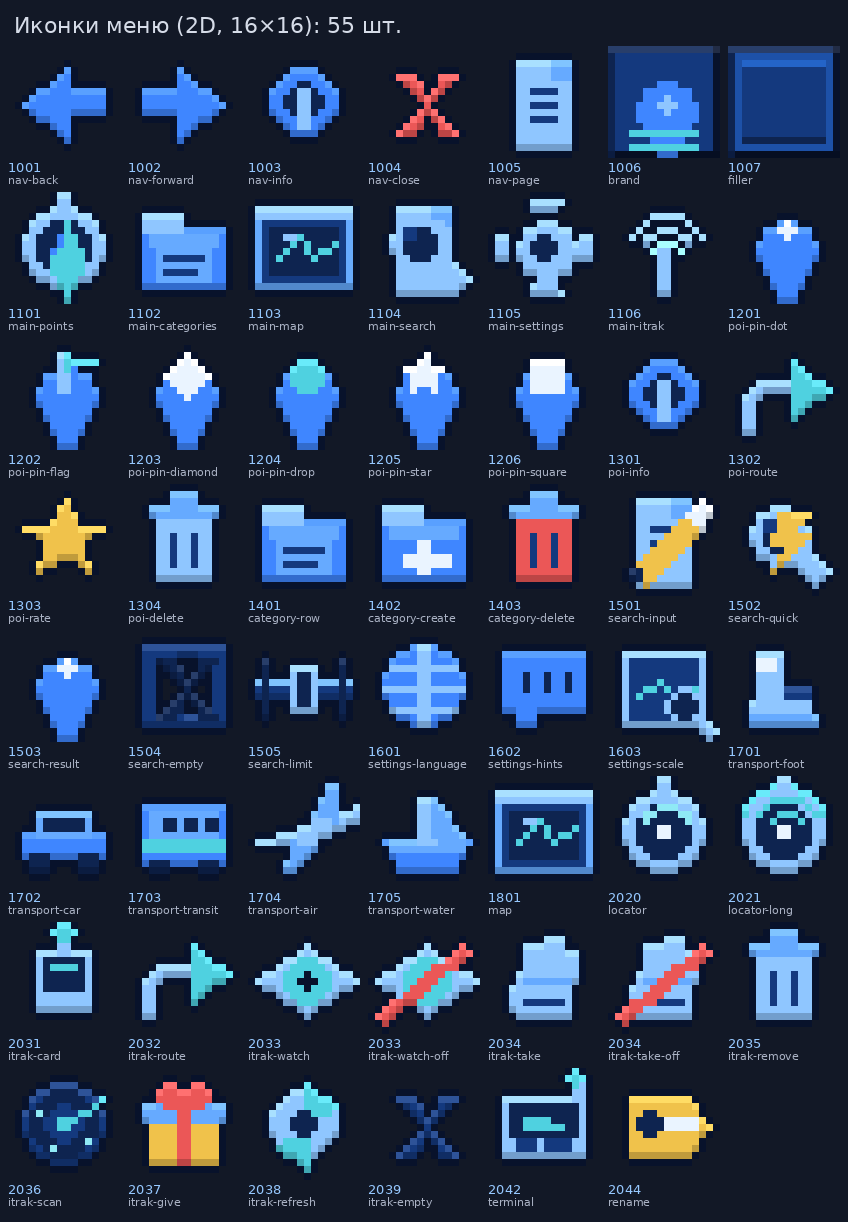
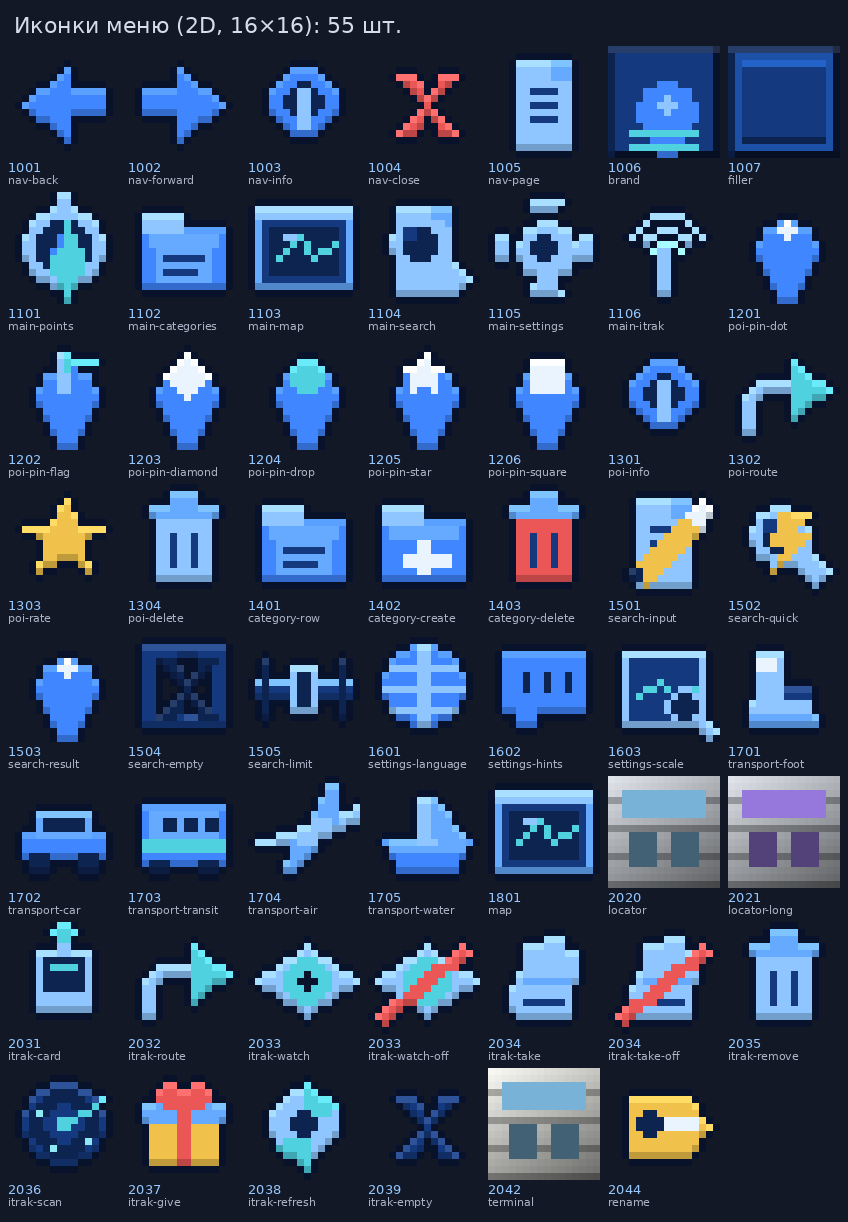
v1.4.3: объёмные терминал и локаторы, уточнён трекер

Changed region(s): [[0.7052, 0.6219, 1.0, 0.7463], [0.5519, 0.8707, 0.7052, 0.964]]

diff --git a/respack/build.py b/respack/build.py
@@ -219,6 +219,68 @@ def model_tracker(color_key: str, wet: bool) -> dict:
     }
 
 
+
+
+def tex_device(key: str, base, accent):
+    from PIL import Image, ImageDraw
+    img = Image.new("RGBA", (16, 16))
+    d = ImageDraw.Draw(img)
+    for y in range(16):
+        for x in range(16):
+            k = 1.05 - y / 40.0 - x / 70.0
+            c = tuple(int(v * k) for v in base)
+            if y % 4 == 3:
+                c = tuple(int(v * 0.72) for v in c)
+            d.point((x, y), fill=c + (255,))
+    d.rectangle([2, 2, 13, 5], fill=accent + (255,))
+    d.rectangle([3, 8, 6, 12], fill=tuple(int(v * 0.55) for v in accent) + (255,))
+    d.rectangle([9, 8, 12, 12], fill=tuple(int(v * 0.55) for v in accent) + (255,))
+    return img
+
+
+DEVICES = {
+    "terminal": ((236, 236, 232), (120, 178, 214)),
+    "locator": ((212, 216, 222), (120, 178, 214)),
+    "locator-long": ((212, 216, 222), (150, 120, 220)),
+}
+
+
+def model_device(key: str) -> dict:
+    def bx(b, tex):
+        el = {"from": [round(v, 3) for v in b[:3]], "to": [round(v, 3) for v in b[3:]], "faces": {}}
+        for f in ("north", "south", "west", "east", "up", "down"):
+            el["faces"][f] = {"texture": tex, "uv": _auto_uv(f, b)}
+        return el
+
+    if key == "terminal":
+        els = [bx((2.0, 0.6, 2.0, 14.0, 11.0, 14.0), "#body"),
+               bx((2.0, 11.0, 2.0, 14.0, 12.2, 14.0), "#accent"),
+               bx((3.4, 3.0, 14.0, 12.6, 9.6, 14.4), "#accent"),
+               bx((7.0, 12.2, 7.0, 9.0, 15.8, 9.0), "#accent"),
+               bx((6.0, 15.8, 6.0, 10.0, 16.0, 10.0), "#body")]
+    else:
+        long_ = key == "locator-long"
+        els = [bx((3.0, 3.0, 4.0, 13.0, 13.0, 12.0), "#body"),
+               bx((3.0, 13.0, 4.0, 13.0, 14.0, 12.0), "#accent"),
+               bx((6.0, 3.0, 12.0, 10.0, 10.0, 12.4), "#accent"),
+               bx((7.0, 14.0, 7.0, 9.0, 16.0, 9.0), "#body")]
+        if long_:
+            els.append(bx((1.6, 6.0, 6.0, 3.0, 11.0, 10.0), "#accent"))
+            els.append(bx((13.0, 6.0, 6.0, 14.4, 11.0, 10.0), "#accent"))
+    return {
+        "parent": "minecraft:block/block",
+        "textures": {"particle": f"hahgps:item/{key}", "body": f"hahgps:item/{key}",
+                     "accent": f"hahgps:item/{key}_accent"},
+        "elements": els,
+        "display": {
+            "gui": {"rotation": [30, 225, 0], "translation": [0, 0, 0], "scale": [0.625, 0.625, 0.625]},
+            "ground": {"rotation": [0, 0, 0], "translation": [0, 3, 0], "scale": [0.25, 0.25, 0.25]},
+            "fixed": {"rotation": [0, 0, 0], "translation": [0, 0, 0], "scale": [0.5, 0.5, 0.5]},
+            "thirdperson_righthand": {"rotation": [0, 45, 0], "translation": [0, 3, 0], "scale": [0.4, 0.4, 0.4]},
+            "firstperson_righthand": {"rotation": [0, 45, 0], "translation": [0, 2, 0], "scale": [0.45, 0.45, 0.45]},
+        },
+    }
+
 def _auto_uv(face, b):
     x0, y0, z0, x1, y1, z1 = b
     if face == "north":
@@ -259,10 +321,16 @@ def build_pack() -> None:
         icons2d.render(icons2d.DRAW[key]).save(tex / f"{key}.png")
     icons2d.render(icons2d.DRAW["itrak-card"]).save(tex / "itrak-card.png")
 
+    for key, (base, accent) in DEVICES.items():
+        tex_device(key, base, accent).save(tex / f"{key}.png")
+        Image.new("RGBA", (16, 16), accent + (255,)).save(tex / f"{key}_accent.png")
+        write_json(models / f"{key}.json", model_device(key))
+
     # модели плоских иконок: parent item/generated + layer0
     flat = {key for _cmd, key, _mats in ICONS}
     flat |= set(ICON_BY_MATERIAL.values())
     flat.add("itrak-card")
+    flat -= set(DEVICES)
     for key in sorted(flat):
         write_json(models / f"{key}.json", {
             "parent": "minecraft:item/generated",

diff --git a/README.md b/README.md
@@ -406,6 +406,7 @@ ru.hahgps
 
 | Версия | Что изменилось |
 |---|---|
+| **1.4.3** | **Объёмные терминал и локаторы.** Терминал iTrak и оба локатора в паке стали 3D-моделями, корпус трекера уточнён; пак — `respack/dist/hahgps.zip`. |
 | **1.4.2** | **Трекер-датчик.** 3D-модель трекера переделана в плоский корпус-таблетку с решёткой, индикатором и креплением вместо «антенны-вейпа»; трекеры, локаторы и терминал не стакаются. Пак — `respack/dist/hahgps.zip`. |
 | **1.4.0** | **Ресурспак HahGPS.** Объёмные трекеры iTrak (8 цветов, обычный и водозащищённый — корпус, экран-карта, антенна), локаторы, терминал, карта и 47 иконок меню по `docs/models.md`; пак в `respack/` (`dist/hahgps-pack-1.21.11.zip`), 63 номера CustomModelData уже выдаёт плагин, правок кода нет. Сборка пака — `python3 respack/build.py`, превью — `respack/preview/`. |
 | **1.3.9** | **Короткий чат, карточка без карты и дождь для трекеров.** Сообщения о трекере («установлен», «брошен», «прицеплен», «подобран», «неподвижен», слежение) стали одной строкой: подробности (имя, код, номер, цвет, тип, статус) — в подсказке при наведении, клик открывает карточку трекера (`/gps itrak open`). Из карточки и меню iTrak убрана кнопка карты; в карточке остались маршрут, слежение, переименование, подобрать и удалить. Обычный (не водонепроницаемый) трекер под открытым небом в дождь мокнет `itrak.rain-ruin-seconds` секунд и навсегда теряет сигнал: координаты замирают на последнем месте, карточка показывает «промок» и время последнего сигнала, маршрут ведёт к последнему месту, слежение прекращается, локатор трекер больше не находит — но снять его можно вручную. Водонепроницаемый не мокнет, под крышей и в воде счётчик сбрасывается. Схема БД v7 (`ruined`, `ruined_at`), схема файла сообщений — 14, новый ключ `itrak.rain-ruin-seconds`. Тестов: 196. |
